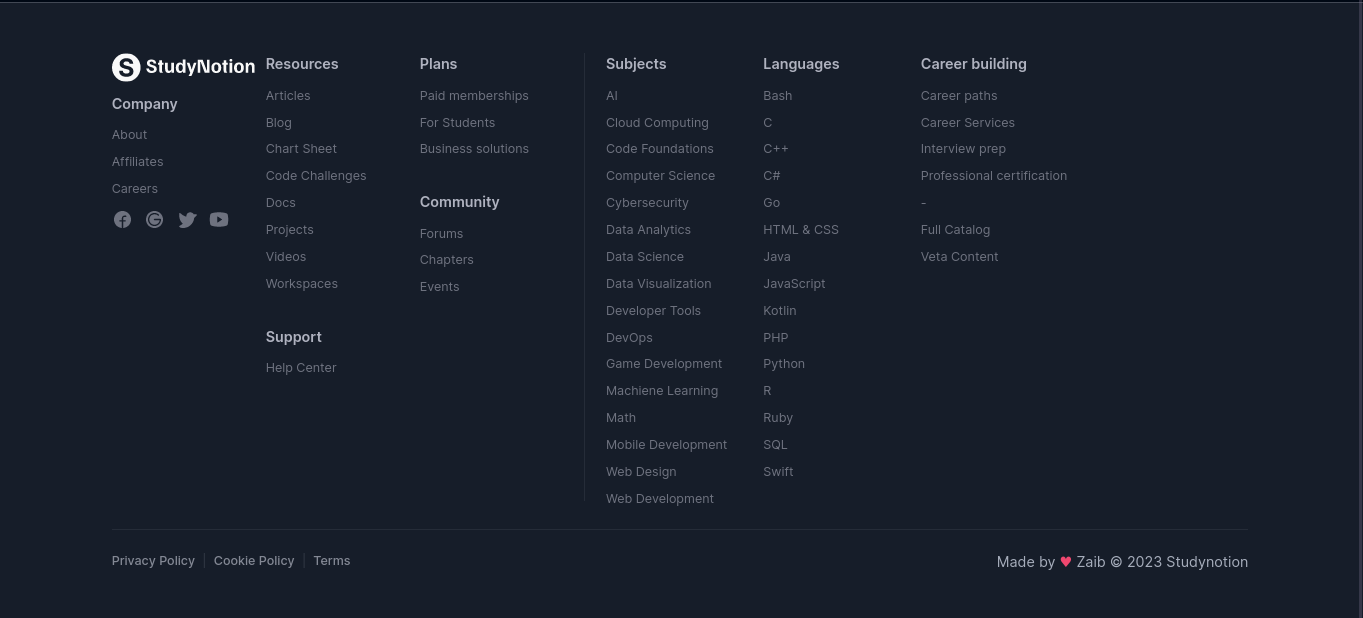
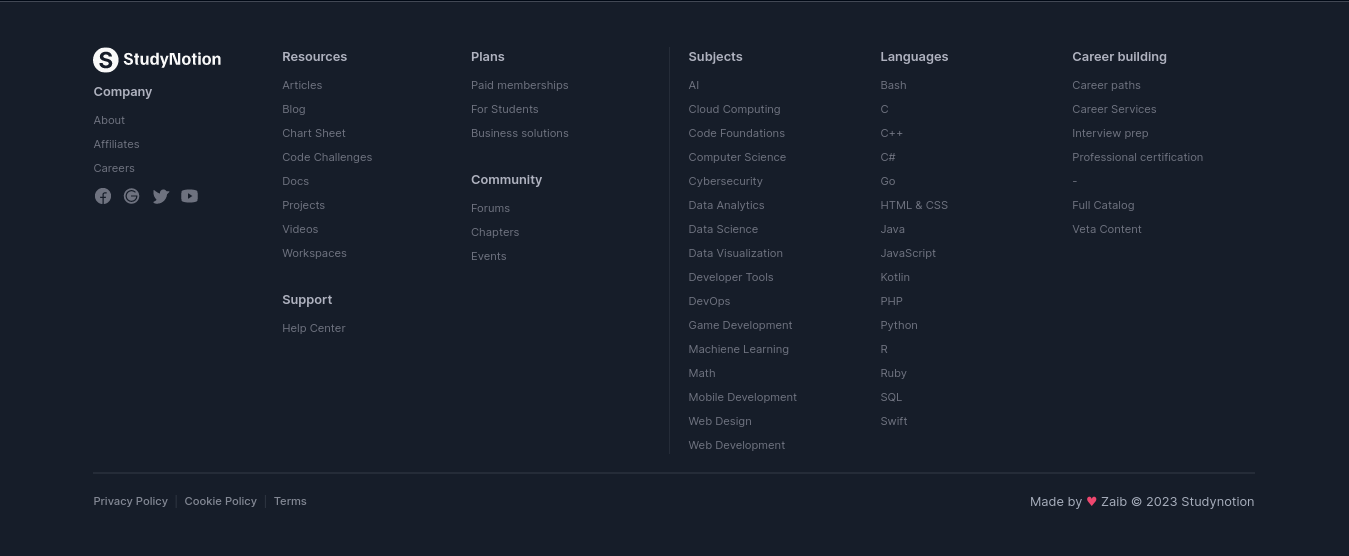
Added simple navbar

diff --git a/src/components/navbar/Navbar.jsx b/src/components/navbar/Navbar.jsx
@@ -1,0 +1,62 @@
+// Modules
+import Logo from "../logo/Logo";
+import { NavLink, Link } from "react-router-dom";
+import Button from "../buttons/Button";
+
+// Icons & images
+import searchIcon from "../../assets/icons/search.svg";
+import cartIcon from "../../assets/icons/cart.svg";
+import defaultDP from "../../assets/Avatar/default_avatar.svg";
+
+const linksList = [
+	{ label: "Home", link: "/" },
+	{ label: "About", link: "/about" },
+	{ label: "Catalog", link: "/catalog" },
+	{ label: "Contact Us", link: "/contact" },
+];
+
+export default function Navbar() {
+	const activeStyle = "text-yellow-50 hover:text-yellow-100 font-semibold";
+
+	return (
+		<div className="mx-4 border-b border-rich-black-700">
+			<nav className="container mx-auto navbar">
+				<div className="navbar-start">
+					<Link className="btn btn-ghost" to="/">
+						<Logo type="dark" />
+					</Link>
+				</div>
+				
+				<div className="navbar-center gap-6">
+					{linksList.map((item) => (
+						<NavLink
+							key={item}
+							to={item.link}
+							className={({ isActive }) => {
+								return `leading-6 text-base 
+										${isActive ? activeStyle : "text-rich-black-25"}
+									`;
+							}}
+						>
+							{item.label}
+						</NavLink>
+					))}
+				</div>
+				
+				<div className="navbar-end gap-5">
+					<button>
+						<img src={ searchIcon }/>
+					</button>
+					<button>
+						<img src={ cartIcon }/>
+					</button>
+					
+					<div>
+						{/* <Button paddingY={8} paddingX={12} type="secondary" text="Sign Up"/> */}
+						<img src={ defaultDP } className="block w-8 h-8 rounded-full"/>
+					</div>
+				</div>
+			</nav>
+		</div>
+	);
+}

diff --git a/src/components/footer/Footer.jsx b/src/components/footer/Footer.jsx
@@ -23,10 +23,10 @@ export default function Footer() {
 		career,
 	} = links
 	
-	return <footer className="px-32 border border-b-0 border-x-0 bg-rich-black-800 font-inter py-14 border-t-rich-black-600">
-		<div className="flex">
+	return <footer className="px-32 border-t border-b-0 border-x-0 bg-rich-black-800 font-inter py-14 border-t-rich-black-600">
+		<div className="flex justify-between">
 			{/* Main Footer Content */}
-			<div className="grid grid-cols-3 gap-x-3">
+			<div className="grid grid-cols-3 grow gap-x-3">
 				{/* Col 1 */}
 				<div className="space-y-3">
 					<Logo type="dark"/>
@@ -52,10 +52,10 @@ export default function Footer() {
 				</div>
 			</div>
 			
-			<div className="divider divider-horizontal h-[500px]"></div>
+			<div className="divider divider-horizontal"></div>
 			
 			{/* Courses */}
-			<div className="grid grid-cols-3 gap-x-3">
+			<div className="grid grid-cols-3 grow gap-x-3">
 				{/* Col 1 */}
 				<FooterColumn title="Subjects" listArr={ subjects }/>
 				

diff --git a/src/components/buttons/Button.jsx b/src/components/buttons/Button.jsx
@@ -1,6 +1,6 @@
 import PropTypes from "prop-types";
 
-export default function Button({ type, text, clickFn }) {
+export default function Button({ type, text, paddingX, paddingY, clickFn }) {
 	const common_btn_classes = "space-x-2 p-3 rounded-lg"
 	
 	// Note: Primary button has the color of accent
@@ -13,6 +13,12 @@ export default function Button({ type, text, clickFn }) {
 	return <button 
 		onClick={ clickFn }
 		className={`${common_btn_classes} ${btnTypeStyle}`}
+		style={{
+			paddingLeft: paddingX,
+			paddingRight: paddingX,
+			paddingTop: paddingY,
+			paddingBottom: paddingY,
+		}}
 	>
 		{ text }
 	</button>
@@ -21,5 +27,7 @@ export default function Button({ type, text, clickFn }) {
 Button.propTypes = {
 	text: PropTypes.string.isRequired,
 	type: PropTypes.string.isRequired,
+	paddingX: PropTypes.number,
+	paddingY: PropTypes.number,
 	clickFn: PropTypes.func,
 }

diff --git a/src/layout/Root.jsx b/src/layout/Root.jsx
@@ -1,12 +1,10 @@
 import {Outlet} from "react-router-dom";
-import Navbar from "./Home/Navbar";
-import Footer from "../components/footer/Footer";
+import Navbar from "../components/navbar/Navbar";
 
 
 export default function Root() {
-	return <div>
+	return <div className="font-inter">
 		<Navbar/>
 		<Outlet/>
-		<Footer/>
 	</div>
 }

diff --git a/tailwind.config.js b/tailwind.config.js
@@ -10,6 +10,7 @@ export default {
 			colors: {
 				"pure-grey-5": "#F9F9F9",
 				"rich-black-5": "#F1F2FF",
+				"rich-black-25": "#DBDDEA",
 				"rich-black-50": "#C5C7D4",
 				"rich-black-100": "#AFB2BF",
 				"rich-black-200": "#999DAA",

diff --git a/src/components/navbar/README.md b/src/components/navbar/README.md
@@ -1,0 +1,7 @@
+<h1>Navbar Preview</h1>
+
+<p align="center">Without User</p>
+<img align="center" src="./images/navbar_no_user.png"/>
+
+<p align="center">With User</p>
+<img align="center" src="./images/navbar_with_user.png"/>
